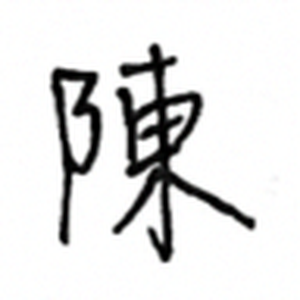
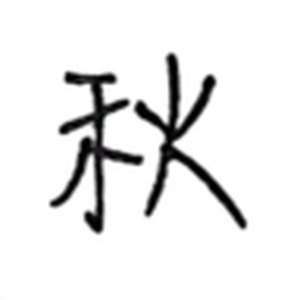
add 秋

Changed region(s): [[0.15, 0.12, 0.87, 0.9]]

diff --git a/hw04/index.html b/hw04/index.html
@@ -153,7 +153,7 @@
   <!-- ------------------------------------------------>
   <div class="row hw12">
     <div class="col-md-12 twenty">
-      這是字體生成最後一項作業，我們要比較大家字體的相似度，分別使用 LPIPS 和 SSIM 這兩個指標。選用「陳」這個字，將自己寫的「陳」對全班每個寫的「陳」作比較，看到圖表的繪製結果，可以知道自己的字和哪些同學的寫法和結構較為相近，是個有趣的實驗。
+      這是字體生成最後一項作業，我們要比較大家字體的相似度，分別使用 LPIPS 和 SSIM 這兩個指標。選用「秋」這個字，將自己寫的「秋」對全班每個寫的「秋」作比較，看到圖表的繪製結果，可以知道自己的字和哪些同學的寫法和結構較為相近，是個有趣的實驗。
     </div>
   </div>
 